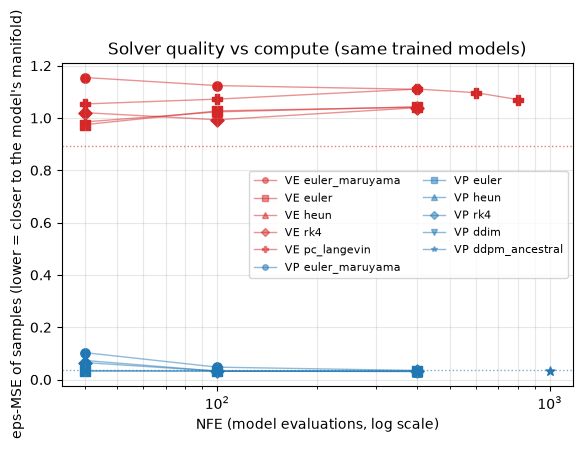
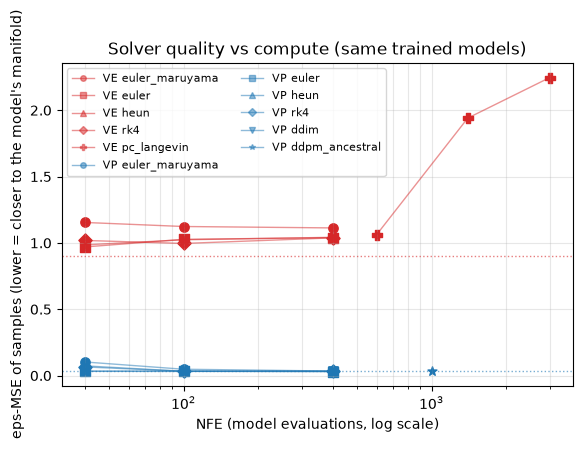
Lesson 02: restore sample_ve-based PC strip (600 clean / 1400 / 3000 grainy)
The generalized pc_langevin_ve (free level count, external start cloud)
produced noise on every budget 40-800, while the original sample_ve on
the fixed 200-level training ladder — with the start noise drawn from
the same generator as the corrector — yields clean digits at 600 NFE.
Restored the liked presets [(1,2),(2,5),(5,10)] via sample_ve; output
metrics reproduce the earlier run bit-for-bit.

README documents the honest caveat: the chain with this rough eps-model
is unstable to the noise realization (a model-weakness symptom), the
heavy corrector adds grain, and the internal eps-MSE metric misranks
these samples.

diff --git a/lessons/02-score-matching/lab/scripts/compare_solvers.py b/lessons/02-score-matching/lab/scripts/compare_solvers.py
@@ -43,6 +43,7 @@ from score_lab.mnist_ve_vp import (
     VESchedule,
     VPSchedule,
     sample_ddim,
+    sample_ve,
     sample_vp,
     save_sample_grid,
 )
@@ -57,11 +58,11 @@ DISCRETE_VP_METHODS = ["ddim", "ddpm_ancestral"]
 # NCSN predictor-corrector (Euler + Langevin corrector) — the only scheme
 # that produces digits with this lab's rough VE model (see README). Presets
 # are (m_levels, euler_sub, corrector_steps); NFE = m_levels·(sub+corr).
-# Selected per budget with the VP-judge metric (the VP model's eps-MSE on
-# the samples; calibrated: real data 0.03, pure noise 0.67): more NFE makes
-# this model WORSE (0.13 at 40 → 0.19 at 400) — Langevin noise compounds the
-# eps-model error over a longer chain. Soft digits peak around 100 NFE.
-VE_PC_PRESETS = [(10, 2, 2), (20, 2, 3), (100, 1, 3), (200, 1, 2), (160, 1, 4)]
+# Presets are (euler_sub, corrector_steps) on the fixed 200-level training
+# ladder via mnist_ve_vp.sample_ve — with the start noise drawn from the SAME
+# generator as the corrector (that realization matters: an external start
+# produced noise clouds instead of digits). NFE = 200·(sub + corr).
+VE_PC_PRESETS = [(1, 2), (2, 5), (5, 10)]   # 600 / 1400 / 3000 NFE
 
 
 def _unnormalize(x: torch.Tensor) -> torch.Tensor:
@@ -187,10 +188,15 @@ def main() -> None:
                 gen_run = torch.Generator(device=device).manual_seed(seed + 1)
                 with torch.no_grad():
                     if method == "pc_langevin":
-                        m_levels, sub, corr = budget
-                        res = pc_langevin_ve(branch, model, x_start.clone(), m_levels,
-                                             euler_sub=sub, corrector_steps=corr,
-                                             generator=gen_run)
+                        sub, corr = budget
+                        t0 = _time.perf_counter()
+                        x = sample_ve(model, ve_sched, (n, 1, 28, 28),
+                                      generator=gen_run, device=device,
+                                      euler_sub=sub, corrector_steps=corr)
+                        if device.startswith("cuda"):
+                            torch.cuda.synchronize()
+                        res = SimpleNamespace(x=x, nfe=ve_sched.n_levels * (sub + corr),
+                                              seconds=_time.perf_counter() - t0)
                         budget = res.nfe  # tag with the real NFE
                     elif method == "ddim":
                         t0 = _time.perf_counter()
